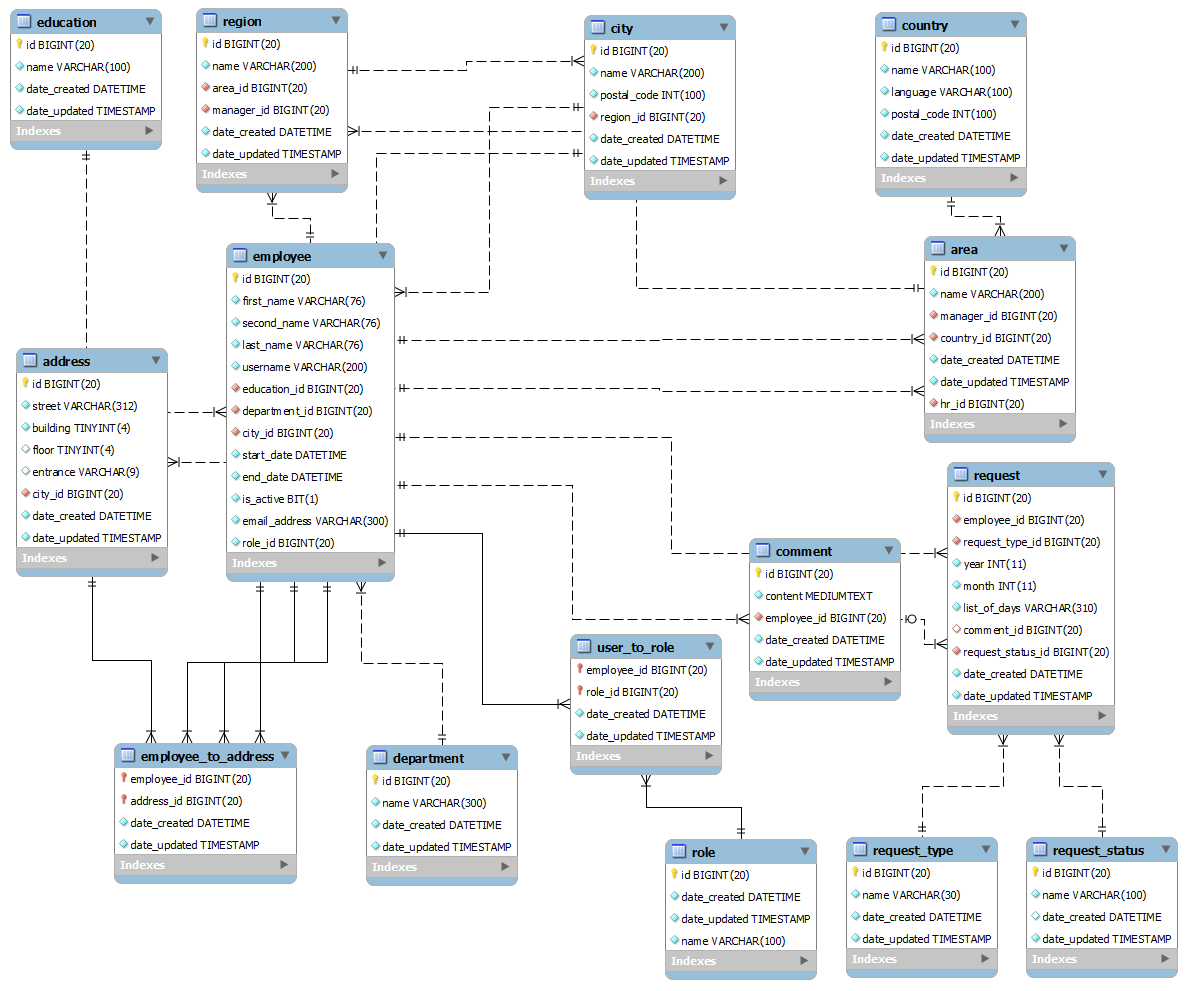
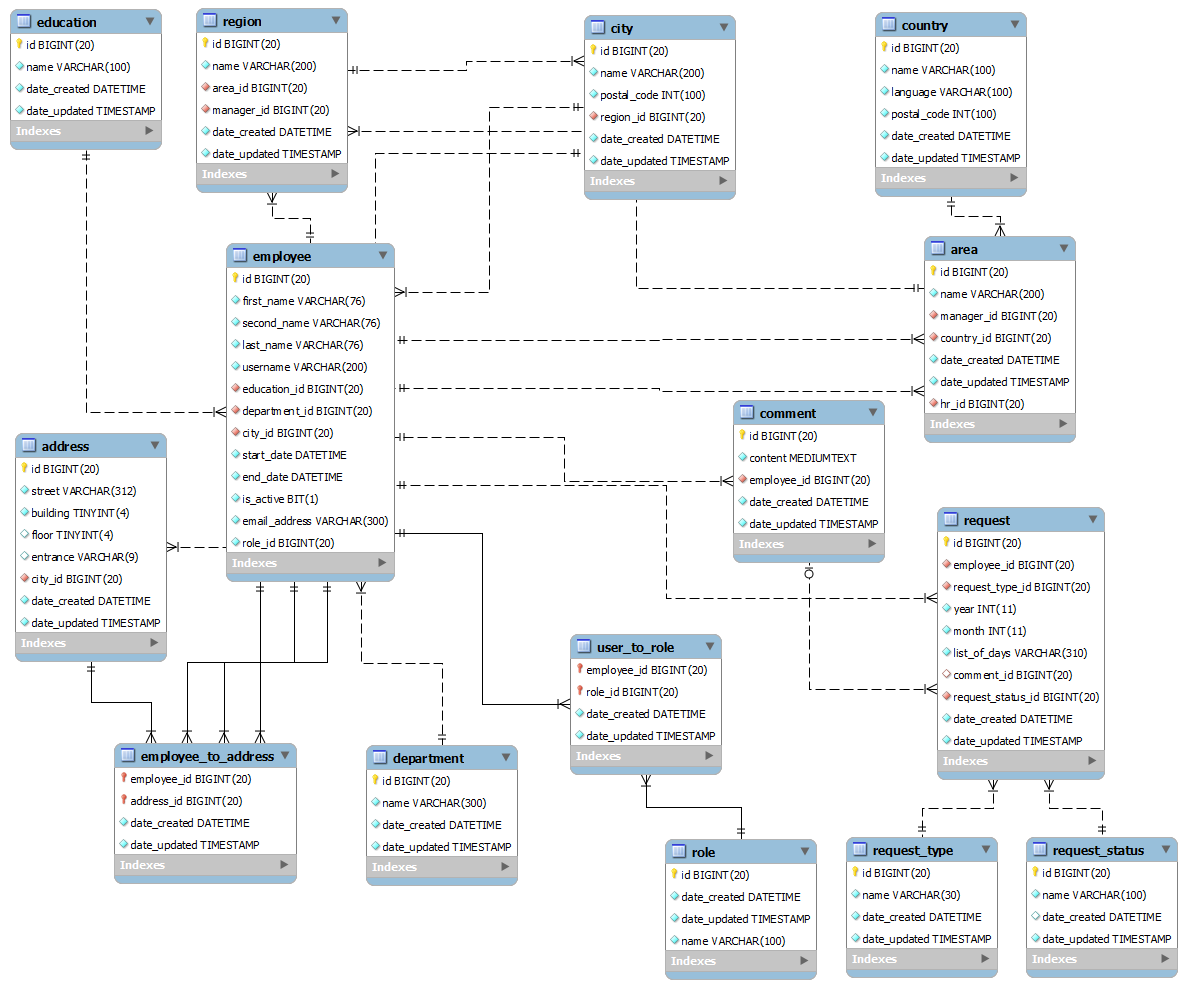
Relationships mapping initial commit.

Changed region(s): [[0.5922, 0.3935, 0.9351, 0.8174], [0.0, 0.333, 0.1559, 0.6963]]

diff --git a/domanagement-datamodel/src/main/java/com/realintelligence/domanagement/datamodel/User.java b/domanagement-datamodel/src/main/java/com/realintelligence/domanagement/datamodel/User.java
@@ -4,13 +4,16 @@ import java.util.Date;
 
 import javax.persistence.Column;
 import javax.persistence.Entity;
+import javax.persistence.FetchType;
+import javax.persistence.JoinColumn;
+import javax.persistence.ManyToOne;
 import javax.persistence.Table;
 import javax.persistence.Temporal;
 import javax.persistence.TemporalType;
 
 @Entity
 @Table(name = "employee")
-public class User extends AbstractEntity{
+public class User extends AbstractEntity {
     @Column(name = "first_name", nullable = false)
     private String firstName;
 
@@ -36,6 +39,106 @@ public class User extends AbstractEntity{
     @Column(name = "end_date", columnDefinition = "DATETIME")
     @Temporal(TemporalType.TIMESTAMP)
     private Date endDate;
+
+    @ManyToOne(fetch = FetchType.LAZY)
+    @JoinColumn(name = "city_id")
+    private City city;
+
+    @ManyToOne(fetch = FetchType.LAZY)
+    @JoinColumn(name = "department_id")
+    private Department department;
+
+    @ManyToOne(fetch = FetchType.LAZY)
+    @JoinColumn(name = "education_id")
+    private Education education;
+    
+    public Education getEducation() {
+        return education;
+    }
+
+    public void setEducation(Education education) {
+        this.education = education;
+    }
+
+    public Department getDepartment() {
+	return department;
+    }
+
+    public void setDepartment(Department department) {
+	this.department = department;
+    }
+
+    public String getFirstName() {
+	return firstName;
+    }
+
+    public void setFirstName(String firstName) {
+	this.firstName = firstName;
+    }
+
+    public String getSecondName() {
+	return secondName;
+    }
+
+    public void setSecondName(String secondName) {
+	this.secondName = secondName;
+    }
+
+    public String getLastName() {
+	return lastName;
+    }
+
+    public void setLastName(String lastName) {
+	this.lastName = lastName;
+    }
+
+    public String getUsername() {
+	return username;
+    }
+
+    public void setUsername(String username) {
+	this.username = username;
+    }
+
+    public String getEmailAddress() {
+	return emailAddress;
+    }
+
+    public void setEmailAddress(String emailAddress) {
+	this.emailAddress = emailAddress;
+    }
+
+    public Boolean getIsActive() {
+	return isActive;
+    }
+
+    public void setIsActive(Boolean isActive) {
+	this.isActive = isActive;
+    }
+
+    public Date getStartDate() {
+	return startDate;
+    }
+
+    public void setStartDate(Date startDate) {
+	this.startDate = startDate;
+    }
+
+    public Date getEndDate() {
+	return endDate;
+    }
+
+    public void setEndDate(Date endDate) {
+	this.endDate = endDate;
+    }
+
+    public City getCity() {
+	return city;
+    }
+
+    public void setCity(City city) {
+	this.city = city;
+    }
 
     @Override
     public int hashCode() {

diff --git a/domanagement-datamodel/src/main/java/com/realintelligence/domanagement/datamodel/City.java b/domanagement-datamodel/src/main/java/com/realintelligence/domanagement/datamodel/City.java
@@ -1,7 +1,13 @@
 package com.realintelligence.domanagement.datamodel;
 
+import java.util.List;
+
 import javax.persistence.Column;
 import javax.persistence.Entity;
+import javax.persistence.FetchType;
+import javax.persistence.JoinColumn;
+import javax.persistence.ManyToOne;
+import javax.persistence.OneToMany;
 import javax.persistence.Table;
 
 @Entity
@@ -13,20 +19,44 @@ public class City extends AbstractEntity {
     @Column(name = "postal_code")
     private Integer postalCode;
 
+    @OneToMany(fetch = FetchType.LAZY, mappedBy = "city")
+    private List<User> employees;
+
+    @ManyToOne(fetch = FetchType.LAZY)
+    @JoinColumn(name = "region_id")
+    private Region region;
+
+    
+    public List<User> getEmployees() {
+        return employees;
+    }
+
+    public void setEmployees(List<User> employees) {
+        this.employees = employees;
+    }
+
+    public Region getRegion() {
+	return region;
+    }
+
+    public void setRegion(Region region) {
+	this.region = region;
+    }
+
     public String getName() {
-        return name;
+	return name;
     }
 
     public void setName(String name) {
-        this.name = name;
+	this.name = name;
     }
 
     public Integer getPostalCode() {
-        return postalCode;
+	return postalCode;
     }
 
     public void setPostalCode(Integer postalCode) {
-        this.postalCode = postalCode;
+	this.postalCode = postalCode;
     }
 
     @Override

diff --git a/domanagement-datamodel/src/main/java/com/realintelligence/domanagement/datamodel/Area.java b/domanagement-datamodel/src/main/java/com/realintelligence/domanagement/datamodel/Area.java
@@ -1,7 +1,13 @@
 package com.realintelligence.domanagement.datamodel;
 
+import java.util.List;
+
 import javax.persistence.Column;
 import javax.persistence.Entity;
+import javax.persistence.FetchType;
+import javax.persistence.JoinColumn;
+import javax.persistence.ManyToOne;
+import javax.persistence.OneToMany;
 import javax.persistence.Table;
 
 @Entity
@@ -9,6 +15,29 @@ import javax.persistence.Table;
 public class Area extends AbstractEntity {
     @Column(name = "name")
     private String name;
+
+    @OneToMany(fetch = FetchType.LAZY, mappedBy = "area")
+    private List<Region> regions;
+
+    @ManyToOne(fetch = FetchType.LAZY)
+    @JoinColumn(name = "country_id")
+    private Country country;
+
+    public Country getCountry() {
+	return country;
+    }
+
+    public void setCountry(Country country) {
+	this.country = country;
+    }
+
+    public List<Region> getRegions() {
+	return regions;
+    }
+
+    public void setRegions(List<Region> regions) {
+	this.regions = regions;
+    }
 
     public String getName() {
 	return name;

diff --git a/domanagement-datamodel/src/main/java/com/realintelligence/domanagement/datamodel/Region.java b/domanagement-datamodel/src/main/java/com/realintelligence/domanagement/datamodel/Region.java
@@ -1,7 +1,13 @@
 package com.realintelligence.domanagement.datamodel;
 
+import java.util.List;
+
 import javax.persistence.Column;
 import javax.persistence.Entity;
+import javax.persistence.FetchType;
+import javax.persistence.JoinColumn;
+import javax.persistence.ManyToOne;
+import javax.persistence.OneToMany;
 import javax.persistence.Table;
 
 @Entity
@@ -9,6 +15,29 @@ import javax.persistence.Table;
 public class Region extends AbstractEntity {
     @Column(name = "name")
     private String name;
+
+    @OneToMany(fetch=FetchType.LAZY, mappedBy="city")
+    private List<City> cities;
+    
+    @ManyToOne(fetch = FetchType.LAZY)
+    @JoinColumn(name = "area_id")
+    private Area area;
+    
+    public Area getArea() {
+        return area;
+    }
+
+    public void setArea(Area area) {
+        this.area = area;
+    }
+
+    public List<City> getCities() {
+        return cities;
+    }
+
+    public void setCities(List<City> cities) {
+        this.cities = cities;
+    }
 
     public String getName() {
 	return name;

diff --git a/domanagement-datamodel/src/main/java/com/realintelligence/domanagement/datamodel/Department.java b/domanagement-datamodel/src/main/java/com/realintelligence/domanagement/datamodel/Department.java
@@ -1,7 +1,11 @@
 package com.realintelligence.domanagement.datamodel;
 
+import java.util.List;
+
 import javax.persistence.Column;
 import javax.persistence.Entity;
+import javax.persistence.FetchType;
+import javax.persistence.OneToMany;
 import javax.persistence.Table;
 
 @Entity
@@ -10,7 +14,17 @@ public class Department extends AbstractEntity {
     @Column(name = "name")
     private String name;
 
+    @OneToMany(fetch = FetchType.LAZY, mappedBy = "department")
+    private List<User> employees;
     
+    public List<User> getEmployees() {
+        return employees;
+    }
+
+    public void setEmployees(List<User> employees) {
+        this.employees = employees;
+    }
+
     public String getName() {
         return name;
     }

diff --git a/domanagement-datamodel/src/main/java/com/realintelligence/domanagement/datamodel/Education.java b/domanagement-datamodel/src/main/java/com/realintelligence/domanagement/datamodel/Education.java
@@ -1,7 +1,11 @@
 package com.realintelligence.domanagement.datamodel;
 
+import java.util.List;
+
 import javax.persistence.Column;
 import javax.persistence.Entity;
+import javax.persistence.FetchType;
+import javax.persistence.OneToMany;
 import javax.persistence.Table;
 
 @Entity
@@ -9,6 +13,17 @@ import javax.persistence.Table;
 public class Education extends AbstractEntity {
     @Column(name = "name")
     private String name;
+
+    @OneToMany(fetch = FetchType.LAZY, mappedBy = "education")
+    private List<User> employees;
+
+    public List<User> getEmployees() {
+	return employees;
+    }
+
+    public void setEmployees(List<User> employees) {
+	this.employees = employees;
+    }
 
     public String getName() {
 	return name;

diff --git a/domanagement-datamodel/src/main/java/com/realintelligence/domanagement/datamodel/Country.java b/domanagement-datamodel/src/main/java/com/realintelligence/domanagement/datamodel/Country.java
@@ -1,7 +1,11 @@
 package com.realintelligence.domanagement.datamodel;
 
+import java.util.List;
+
 import javax.persistence.Column;
 import javax.persistence.Entity;
+import javax.persistence.FetchType;
+import javax.persistence.OneToMany;
 import javax.persistence.Table;
 
 @Entity
@@ -15,6 +19,17 @@ public class Country extends AbstractEntity {
 
     @Column(name = "postal_code")
     private Integer postalCode;
+
+    @OneToMany(fetch = FetchType.LAZY, mappedBy = "country")
+    private List<Area> areas;
+
+    public List<Area> getAreas() {
+	return areas;
+    }
+
+    public void setAreas(List<Area> areas) {
+	this.areas = areas;
+    }
 
     public String getName() {
 	return name;
